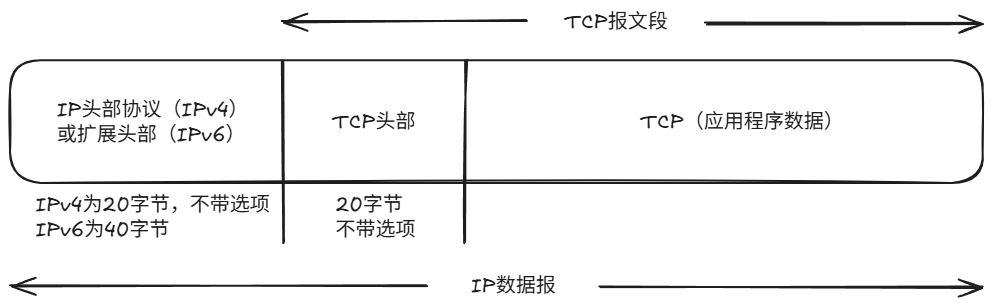
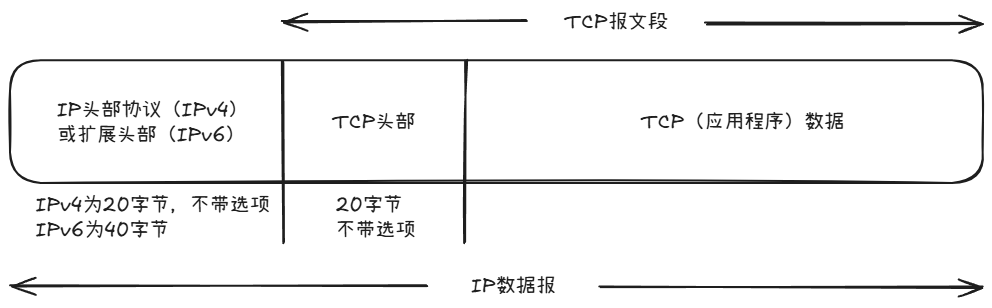
docs:modify TCP/IP note

diff --git a/Excalidraw/TCP头部.md b/Excalidraw/TCP头部.md
@@ -1,0 +1,225 @@
+---
+
+excalidraw-plugin: parsed
+tags: [excalidraw]
+
+---
+==⚠  Switch to EXCALIDRAW VIEW in the MORE OPTIONS menu of this document. ⚠== You can decompress Drawing data with the command palette: 'Decompress current Excalidraw file'. For more info check in plugin settings under 'Saving'
+
+
+# Excalidraw Data
+
+## Text Elements
+源端口（16位） ^j0nsopJ6
+
+目的端口（16位） ^O0GgCR4v
+
+序列号（32位） ^peX4EgFn
+
+确认号（32位） ^BrVoktnM
+
+0 ^iWGMI7Yl
+
+15 ^hmTg369M
+
+16 ^p6bQ6lid
+
+31 ^7X1FYFa6
+
+头部长度
+（4位） ^ksICguKz
+
+保留（0）
+（4位） ^5p8FIjxf
+
+C
+W
+R ^UoeuJqcL
+
+E
+C
+E ^XGvmbBOZ
+
+U
+R
+G ^3RDogdjS
+
+A
+C
+K ^OsYkXH7O
+
+P
+S
+H ^RwNSoOn8
+
+R
+S
+T ^uVRkGdL7
+
+S
+Y
+N ^Ds3ZiZQz
+
+F
+I
+N ^q7PG8Cxp
+
+窗口大小（16位） ^r3jqxY2v
+
+TCP校验和（16位） ^jNk6qZSl
+
+紧急指针（16位） ^0NwiCWu9
+
+选项（可变量） ^kMxh4UT1
+
+基本TCP头部
+（20字节） ^25Lj5RRw
+
+TCP头部 ^4lAXHqK3
+
+%%
+## Drawing
+```compressed-json
[1 lines of base64/hex data omitted]
+
[1 lines of base64/hex data omitted]
+
[1 lines of base64/hex data omitted]
+
[1 lines of base64/hex data omitted]
+
[1 lines of base64/hex data omitted]
+
[1 lines of base64/hex data omitted]
+
[1 lines of base64/hex data omitted]
+
[1 lines of base64/hex data omitted]
+
[1 lines of base64/hex data omitted]
+
[1 lines of base64/hex data omitted]
+
[1 lines of base64/hex data omitted]
+
[1 lines of base64/hex data omitted]
+
[1 lines of base64/hex data omitted]
+
[1 lines of base64/hex data omitted]
+
[1 lines of base64/hex data omitted]
+
[1 lines of base64/hex data omitted]
+
[1 lines of base64/hex data omitted]
+
[1 lines of base64/hex data omitted]
+
[1 lines of base64/hex data omitted]
+
[1 lines of base64/hex data omitted]
+
[1 lines of base64/hex data omitted]
+
[1 lines of base64/hex data omitted]
+
[1 lines of base64/hex data omitted]
+
[1 lines of base64/hex data omitted]
+
[1 lines of base64/hex data omitted]
+
[1 lines of base64/hex data omitted]
+
[1 lines of base64/hex data omitted]
+
[1 lines of base64/hex data omitted]
+
[1 lines of base64/hex data omitted]
+
[1 lines of base64/hex data omitted]
+
[1 lines of base64/hex data omitted]
+
[1 lines of base64/hex data omitted]
+
[1 lines of base64/hex data omitted]
+
[1 lines of base64/hex data omitted]
+
[1 lines of base64/hex data omitted]
+
[1 lines of base64/hex data omitted]
+
[1 lines of base64/hex data omitted]
+
[1 lines of base64/hex data omitted]
+
[1 lines of base64/hex data omitted]
+
[1 lines of base64/hex data omitted]
+
[1 lines of base64/hex data omitted]
+
[1 lines of base64/hex data omitted]
+
[1 lines of base64/hex data omitted]
+
[1 lines of base64/hex data omitted]
+
[1 lines of base64/hex data omitted]
+
[1 lines of base64/hex data omitted]
+
[1 lines of base64/hex data omitted]
+
[1 lines of base64/hex data omitted]
+
[1 lines of base64/hex data omitted]
+
[1 lines of base64/hex data omitted]
+
[1 lines of base64/hex data omitted]
+
[1 lines of base64/hex data omitted]
+
[1 lines of base64/hex data omitted]
+
[1 lines of base64/hex data omitted]
+
[1 lines of base64/hex data omitted]
+
[1 lines of base64/hex data omitted]
+
[1 lines of base64/hex data omitted]
+
[1 lines of base64/hex data omitted]
+
[1 lines of base64/hex data omitted]
+
[1 lines of base64/hex data omitted]
+
[1 lines of base64/hex data omitted]
+
[1 lines of base64/hex data omitted]
+
[1 lines of base64/hex data omitted]
+
[1 lines of base64/hex data omitted]
+
[1 lines of base64/hex data omitted]
+
[1 lines of base64/hex data omitted]
+
[1 lines of base64/hex data omitted]
+
[1 lines of base64/hex data omitted]
+
[1 lines of base64/hex data omitted]
+
[1 lines of base64/hex data omitted]
+
[1 lines of base64/hex data omitted]
+```
+%%

diff --git a/Excalidraw/TCP在IP数据报中的封装.md b/Excalidraw/TCP在IP数据报中的封装.md
@@ -17,7 +17,7 @@ TCP报文段 ^oc2xOUd7
 
 TCP头部 ^bWygy1Y4
 
-TCP（应用程序数据） ^eD85XzJy
+TCP（应用程序）数据 ^eD85XzJy
 
 20字节
 不带选项 ^qokHgG8H
@@ -62,32 +62,32 @@ IXwjorwevhqoIT3tAAMhIMBFiPqoAKVGgA4aaACt1gGhQBOpUNoXoUYQmjkLmmmhPFmjmjusQYWjkMWv
 
[1 lines of base64/hex data omitted]
 
[2 lines of base64/hex data omitted]
 
[2 lines of base64/hex data omitted]
 
[2 lines of base64/hex data omitted]
 
[2 lines of base64/hex data omitted]
 
[2 lines of base64/hex data omitted]
 
[2 lines of base64/hex data omitted]
 
[2 lines of base64/hex data omitted]
 
[2 lines of base64/hex data omitted]
 
[2 lines of base64/hex data omitted]
 
[2 lines of base64/hex data omitted]
 
[2 lines of base64/hex data omitted]
 
[2 lines of base64/hex data omitted]
 
[2 lines of base64/hex data omitted]
 
[2 lines of base64/hex data omitted]
 ```
 %%
